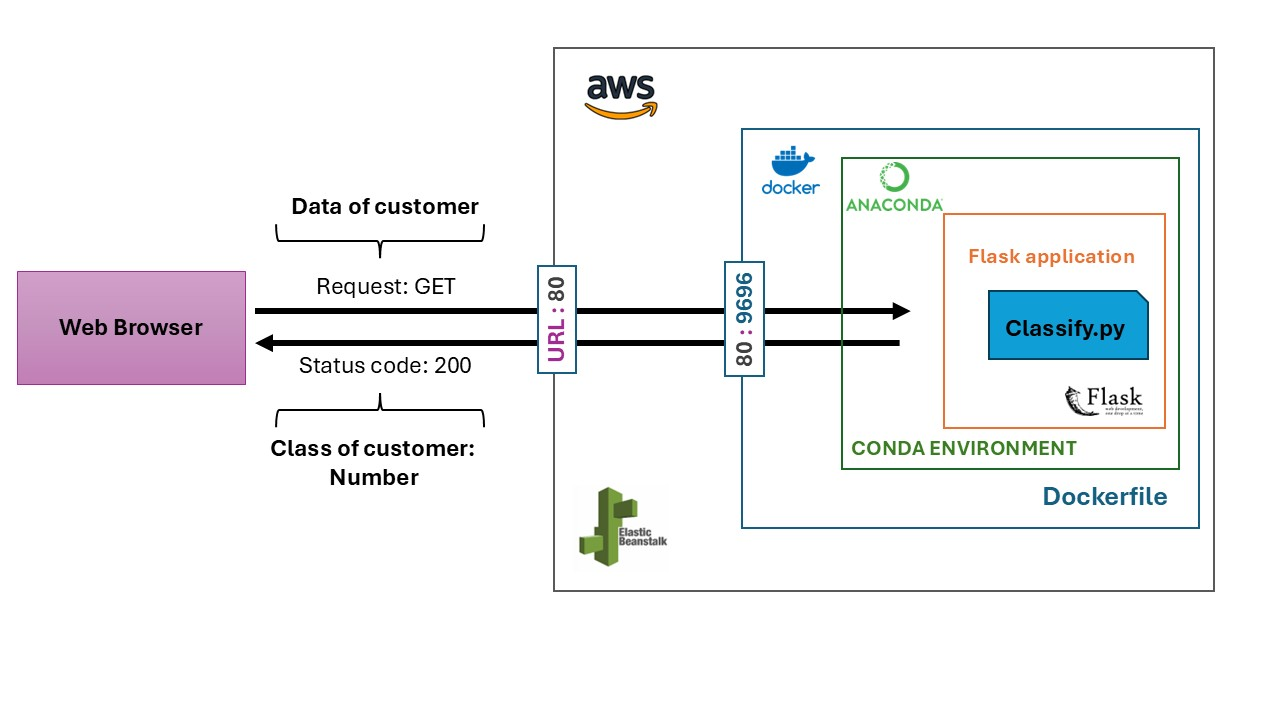
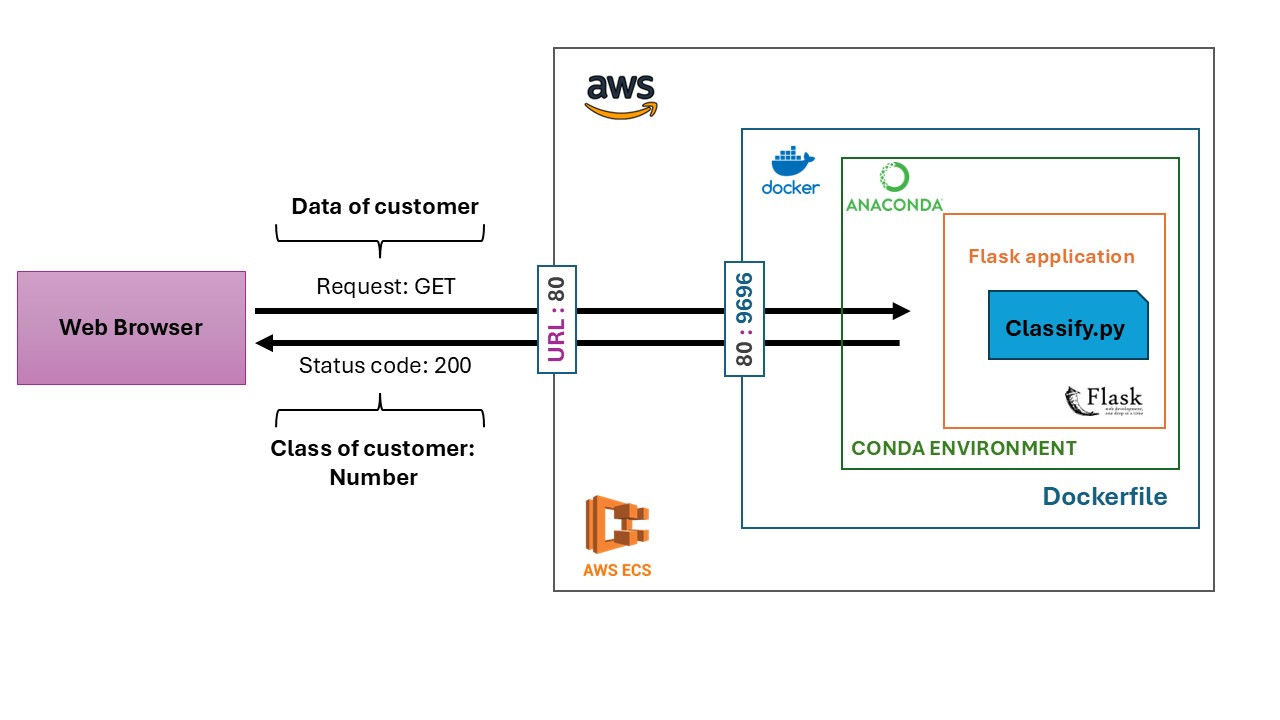
Image updated to include the ECS service used.

Changed region(s): [[0.4375, 0.6722, 0.5312, 0.825], [0.2812, 0.6417, 0.3125, 0.6722]]

diff --git a/deployment_instructions.md b/deployment_instructions.md
@@ -25,18 +25,18 @@ Ensure the following are installed on your system:
 
 ## To test the service locally.
 
-### _4. Run the Application:_
+### _4.1 Run the Application:_
 
 - Start a container:
 
 > docker run -d -p 9696:9696 --name classification-app classification-user:latest
 
-### _5. Access the application:_
+### _5.1 Access the application:_
 
 - Open your web browser and go to: http://localhost:9696
 - Alternatively, test with curl or Postman.
 
-### _6. Testing the application:_
+### _6.1 Testing the application:_
 
 Open and run the file `test.ipynb`to get the classification predicted from the application. Please make sure the variable `customer` is updated as interested.
 
@@ -57,7 +57,7 @@ customer = {
         "screen_on_time_(min/day)": 288.0}
 ```
 
-### _7. Stopping and Removing the Container:_
+### _7.1 Stopping and Removing the Container:_
 
 - To stop the container:
 
@@ -66,3 +66,7 @@ customer = {
 - To remove the container:
 
 > docker rm classification-app
+
+## To deploy it to the cloud.
+
+### _4.1 Run the Application:_
